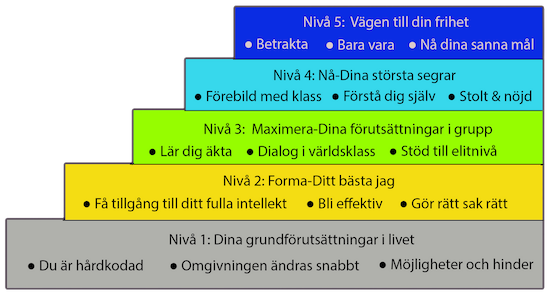
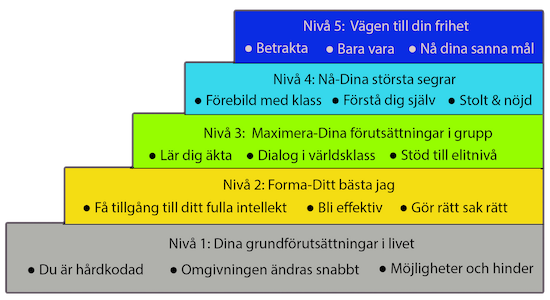
upd

Changed region(s): [[0.0, 0.0, 1.0, 1.0], [0.031, 0.863, 0.2787, 0.9247]]

diff --git a/src/common/mockup2.php b/src/common/mockup2.php
@@ -442,6 +442,37 @@ function st(i)
 	}
 }
 
+function dcs()
+{
+	const lvlcnv = document.getElementById("lvlcnv");
+	const ctx = lvlcnv.getContext("2d");
+	const lvlimg = document.getElementById("lvlimg");
+
+	ctx.fillStyle = "#fff";
+	ctx.fillRect(0, 0, 650, 300);
+	ctx.drawImage(lvlimg, 0, 0); 
+
+	ctx.font = "20px Georgia";
+	ctx.fillStyle = "#000";
+	const h2 = 10;
+	ctx.fillText("lvl 1", 550, 256  + h2 );
+	ctx.fillText("lvl 2", 550, 194  + h2 );
+	ctx.fillText("lvl 3", 550, 141  + h2 );
+	ctx.fillText("lvl 4", 550, 86   + h2 );
+	ctx.fillText("lvl 5", 550, 34   + h2 );
+
+	/*
+	n1  256
+	n2  194
+	n3  141
+	n4   86
+	n5   34
+
+	$to->regLine("<canvas id='lvlcnv' width='650' height='300' >  </canvas> ");
+	$to->regLine("<img style='visibility:hidden;' id='lvlimg' src='level.png' onload="dcs()" >");
+*/
+}
+
 </script>
 
 <style>
@@ -537,7 +568,7 @@ function survOut($tn, $filt)
 }
 
 
-function outBtn( $to, $blbl, $onclck, $ttl )
+function outBtn( $to, $blbl, $onclck, $ttl, $dopl = true )
 {
 	$to->startTag('tr');
 	$to->startTag('td');
@@ -548,6 +579,8 @@ function outBtn( $to, $blbl, $onclck, $ttl )
 		$to->startTag("button", "style='width:150px;' onclick='$onclck'");
 		$to->regLine($ttl);
 		$to->stopTag('button');
+		if ($dopl)
+			$to->regLine(' <img src="gs_gp.png"> <img src="gs_yp.png"> ');
 	}
 	$to->stopTag('td');
 	$to->stopTag('tr');
@@ -655,6 +688,18 @@ function index()
 	$to->stopTag('td');
 	$to->startTag('td');
 
+	$to->regLine("<img src='glad.png'> <br>");
+	$to->regLine("<center> Kundnöjdhet </center> ");
+	$to->regLine("<center> 77% </center> ");
+
+	$to->stopTag('td');
+	$to->startTag('td', "style='width:80px;' ");
+
+	$to->regLine('&nbsp;&nbsp;&nbsp;&nbsp;&nbsp;&nbsp;');
+
+	$to->stopTag('td');
+	$to->startTag('td');
+
 	$to->regLine("<img src='gs_gp.png'> 85%-100% <br>");
 	$to->regLine("<img src='gs_yp.png'> 70%-84% <br>");
 	$to->regLine("<img src='gs_rp.png'> 0%-69% <br>");
@@ -744,11 +789,11 @@ function index()
 	$to->regLine('<td> <div class="bhs"> &nbsp; </div> </td> ');
 	$to->stopTag('tr');
 
-	outBtn($to, "pl21", "st(1)", "Mål");
-	outBtn($to, "pl22", "st(2)", "Stress");
-	outBtn($to, "pl23", "st(3)", "Kommunikation");
-	outBtn($to, "pl24", "st(4)", "Motivation");
-	outBtn($to, "pl25", "st(5)", "Samarbete");
+	outBtn($to, "pl21", "st(1)", "Mål", false);
+	outBtn($to, "pl22", "st(2)", "Stress", false);
+	outBtn($to, "pl23", "st(3)", "Kommunikation", false);
+	outBtn($to, "pl24", "st(4)", "Motivation", false);
+	outBtn($to, "pl25", "st(5)", "Samarbete", false);
 	outBtn($to, "pl26", "", false);
 	$to->stopTag('table');
 
@@ -769,11 +814,11 @@ function index()
 	$to->regLine('<td> <div class="bhs"> Nå ditt sanna jag </div> </td> ');
 	$to->stopTag('tr');
 
-	outBtn($to, "pl31", "sp(0)", "Steg 1");
-	outBtn($to, "pl32", "sp(0)", "Steg 2");
-	outBtn($to, "pl33", "sp(0)", "Steg 3");
+	outBtn($to, "pl31", "sp(0)", "Steg 1", false);
+	outBtn($to, "pl32", "sp(0)", "Steg 2", false);
+	outBtn($to, "pl33", "sp(0)", "Steg 3", false);
 	outBtn($to, "pl34", "", false);
-	outBtn($to, "pl35", "tx(1)", "Min Fysik");
+	outBtn($to, "pl35", "tx(1)", "Min Fysik", false);
 	outBtn($to, "pl36", "", false);
 	$to->stopTag('table');
 
@@ -801,7 +846,9 @@ function index()
 	$to->startTag('table');
 	$to->startTag('tr');
 	$to->startTag('td');
-	$to->regLine("<img src='level.png' >");
+	$to->regLine("<canvas id='lvlcnv' width='650' height='300' >  </canvas> ");
+	$to->regLine("<img style='visibility:hidden; display:none;' id='lvlimg' src='level.png' onload='dcs()' >");
+
 	$to->stopTag('td');
 	$to->startTag('td');
 
